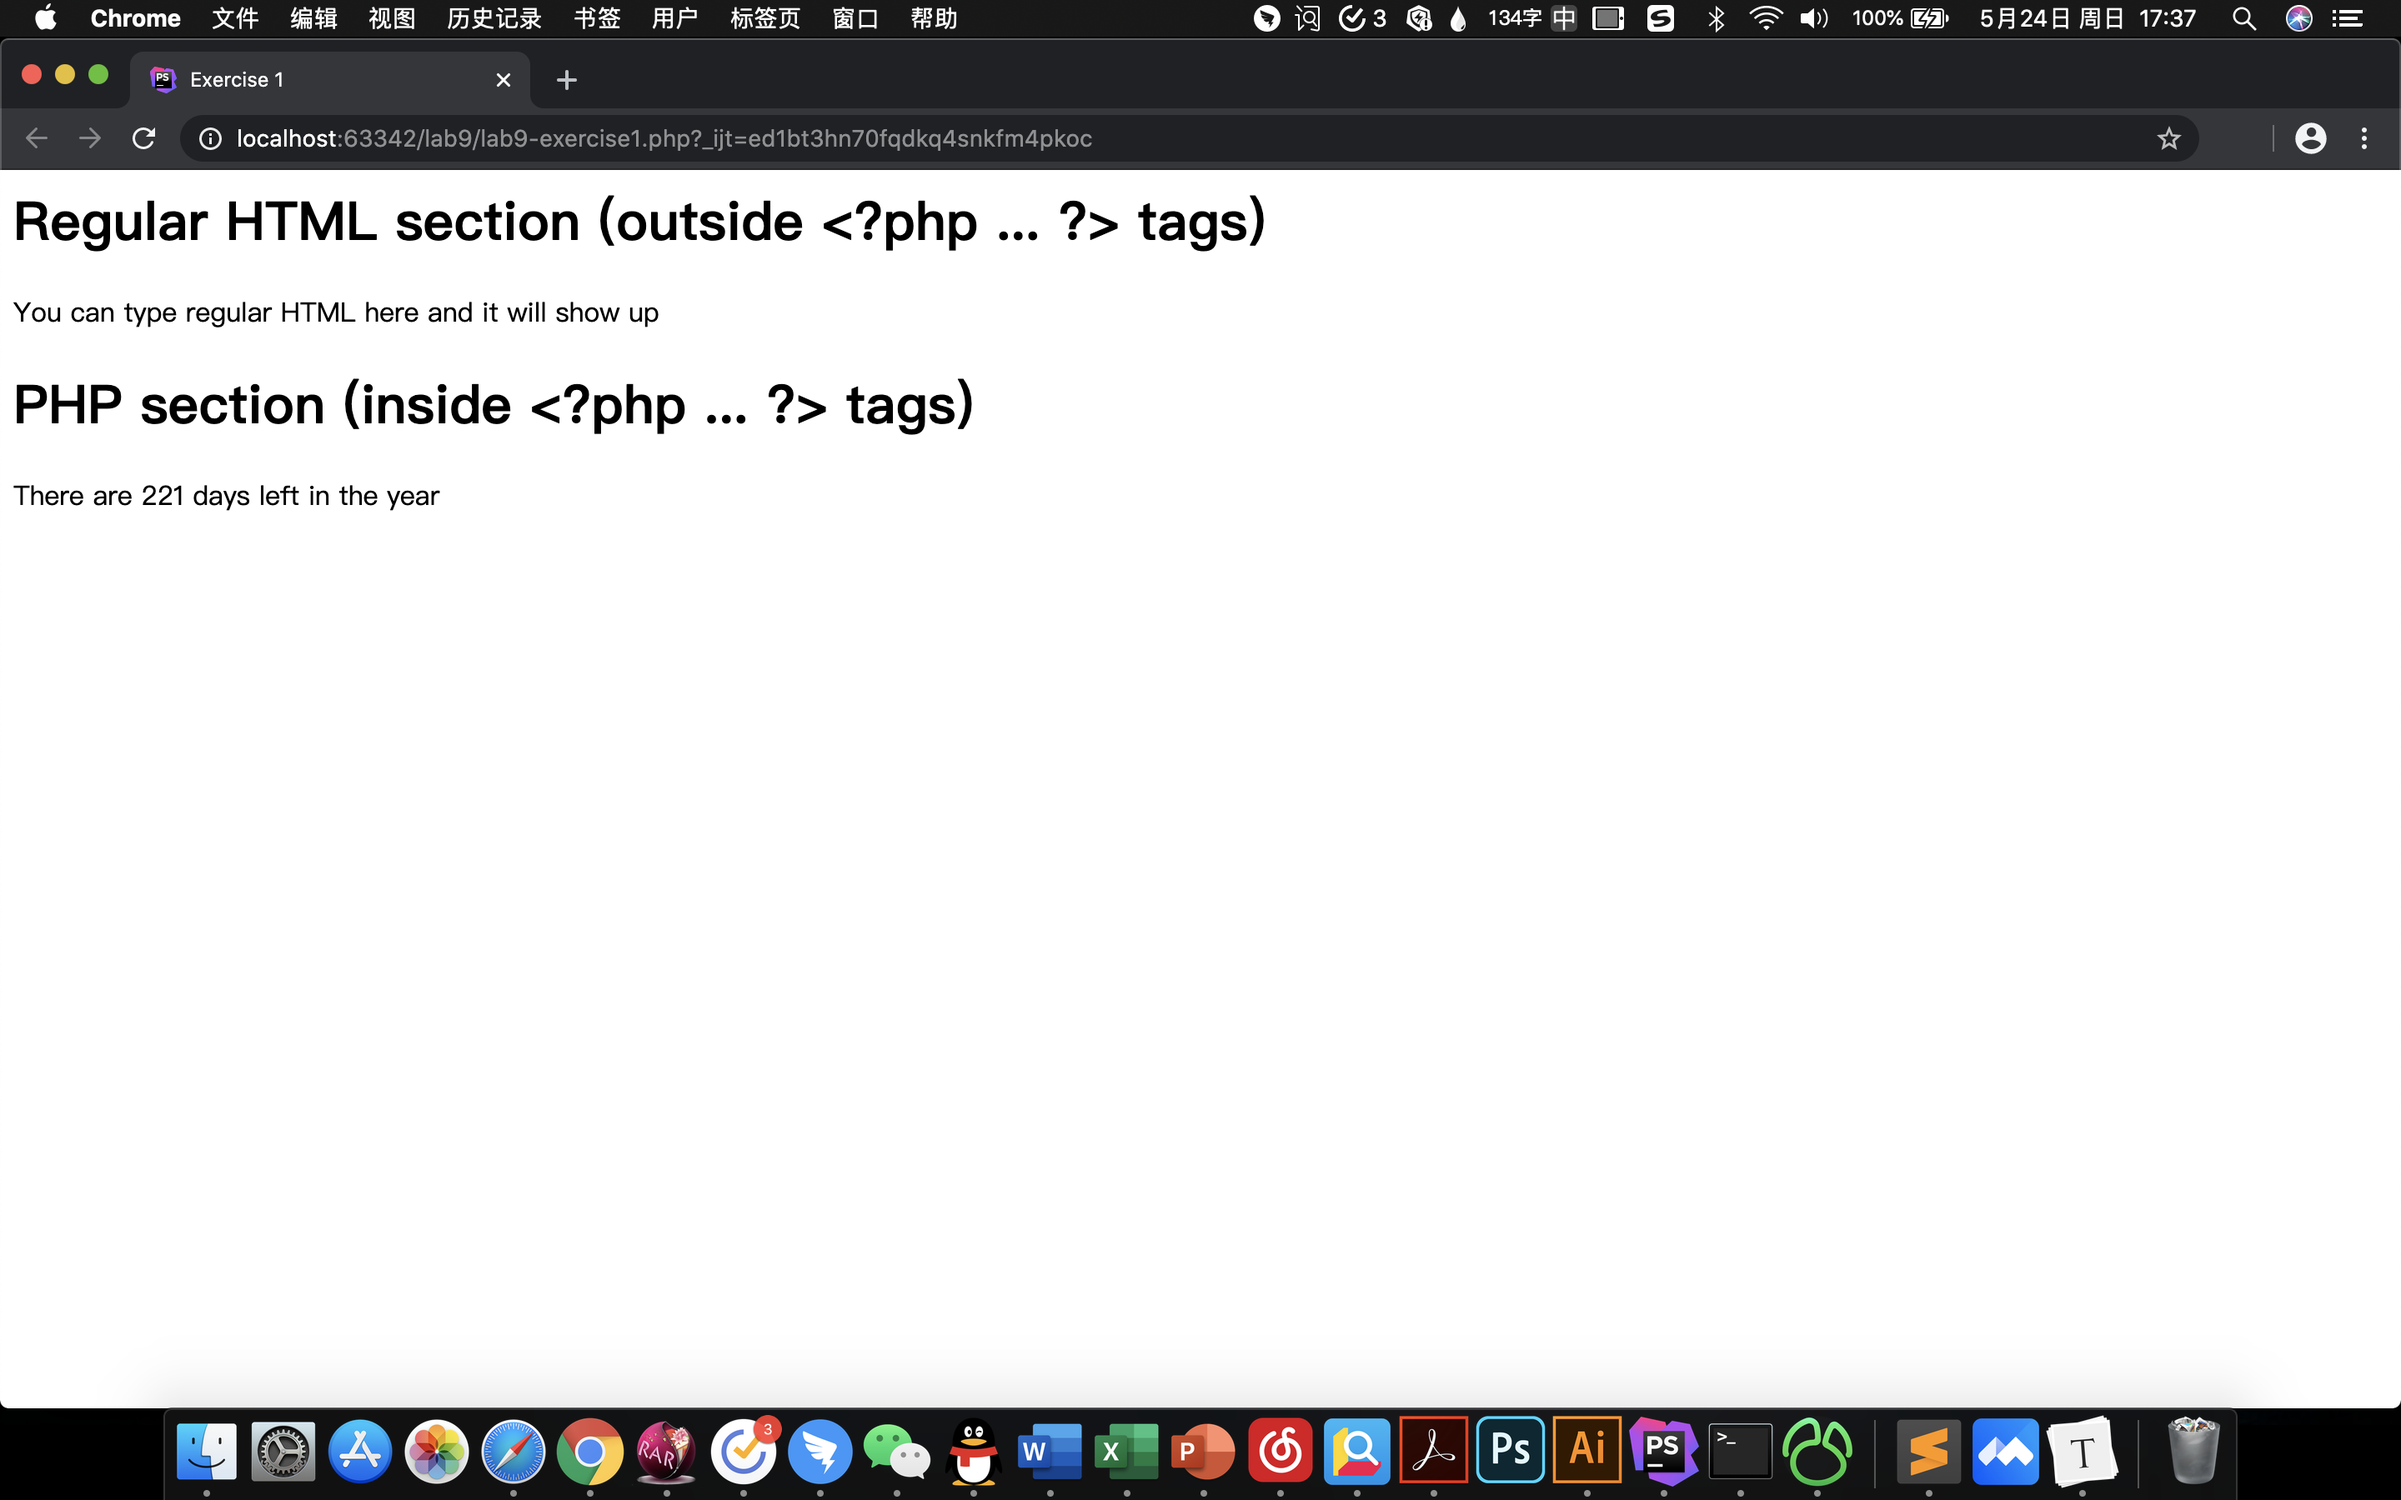
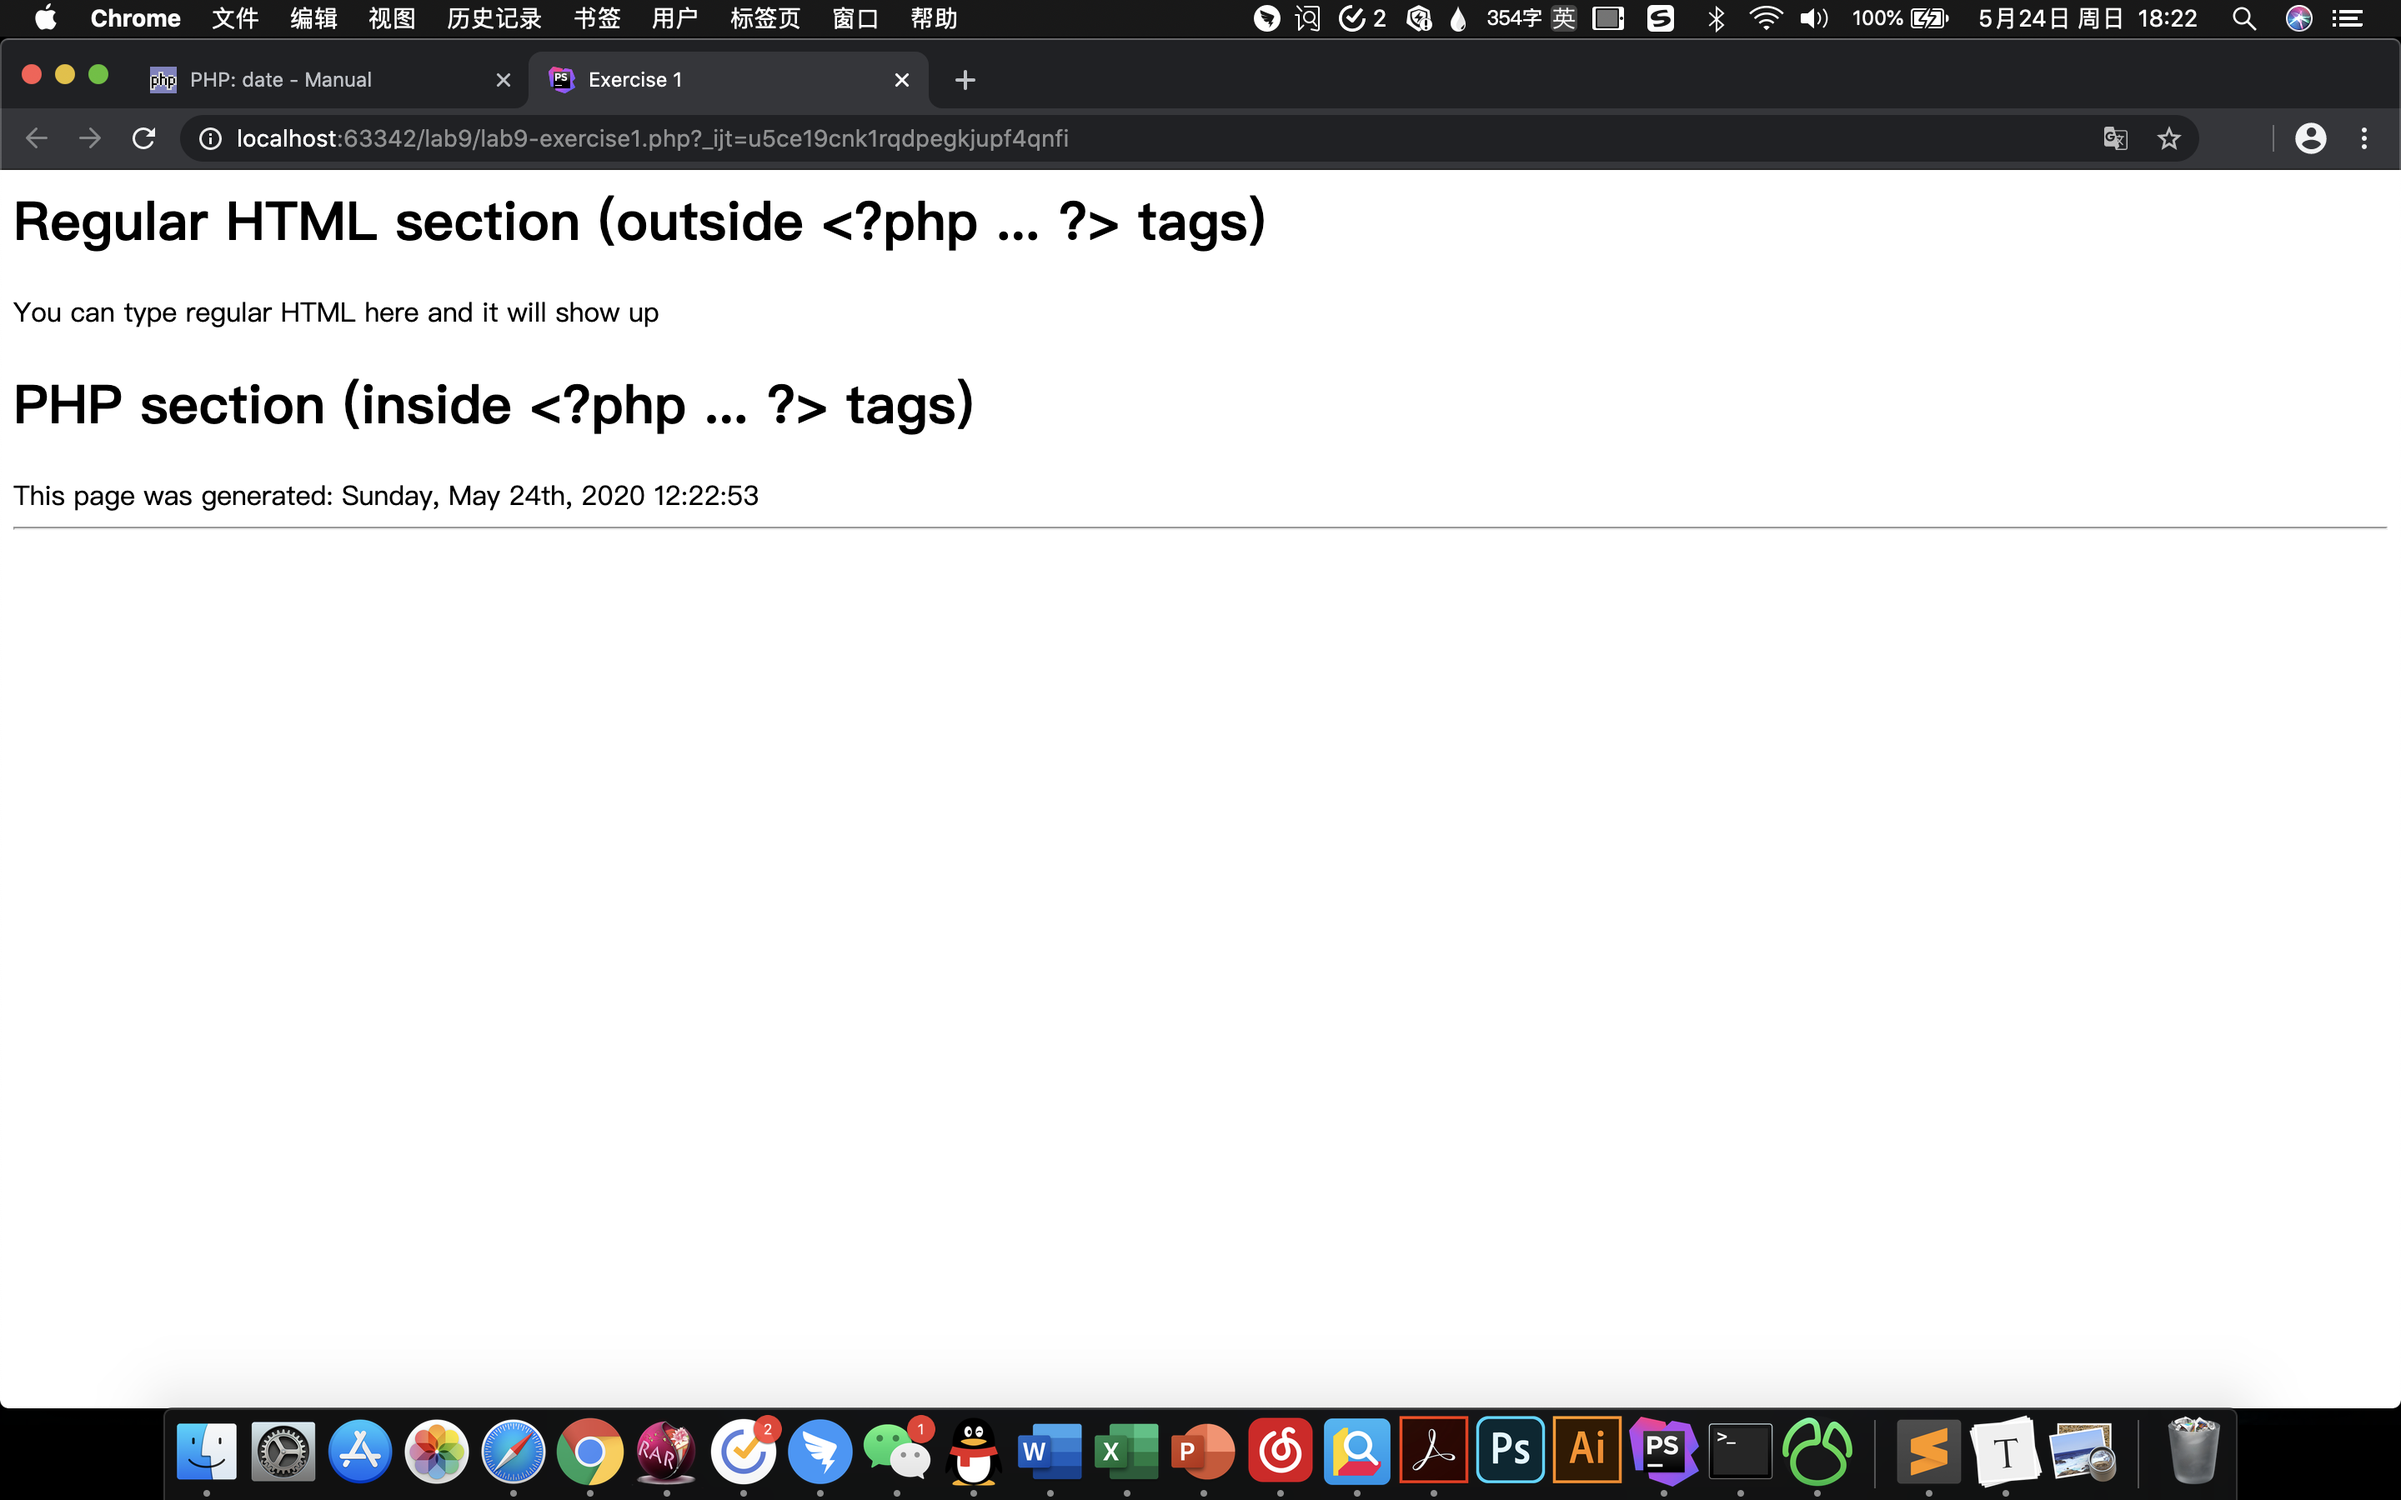
hs's lab9

diff --git a/lab9/lab9-exercise1.php b/lab9/lab9-exercise1.php
@@ -9,8 +9,14 @@
 <h1>PHP section (inside &lt;?php ... ?&gt; tags)</h1>
 <?php
 //this is a php comment IN tags (will not appear)
-$remaining = 365 - date("z") + date("L");
-echo "There are ". $remaining . " days left in the year";
+
+
+$date = date("l, F dS, Y H:i:s");
+echo "This page was generated: " . $date . "<hr/>";
+
+
+//$remaining = 365 - date("z") + date("L");
+//echo "There are ". $remaining . " days left in the year";
 
 ?>
 </body>
